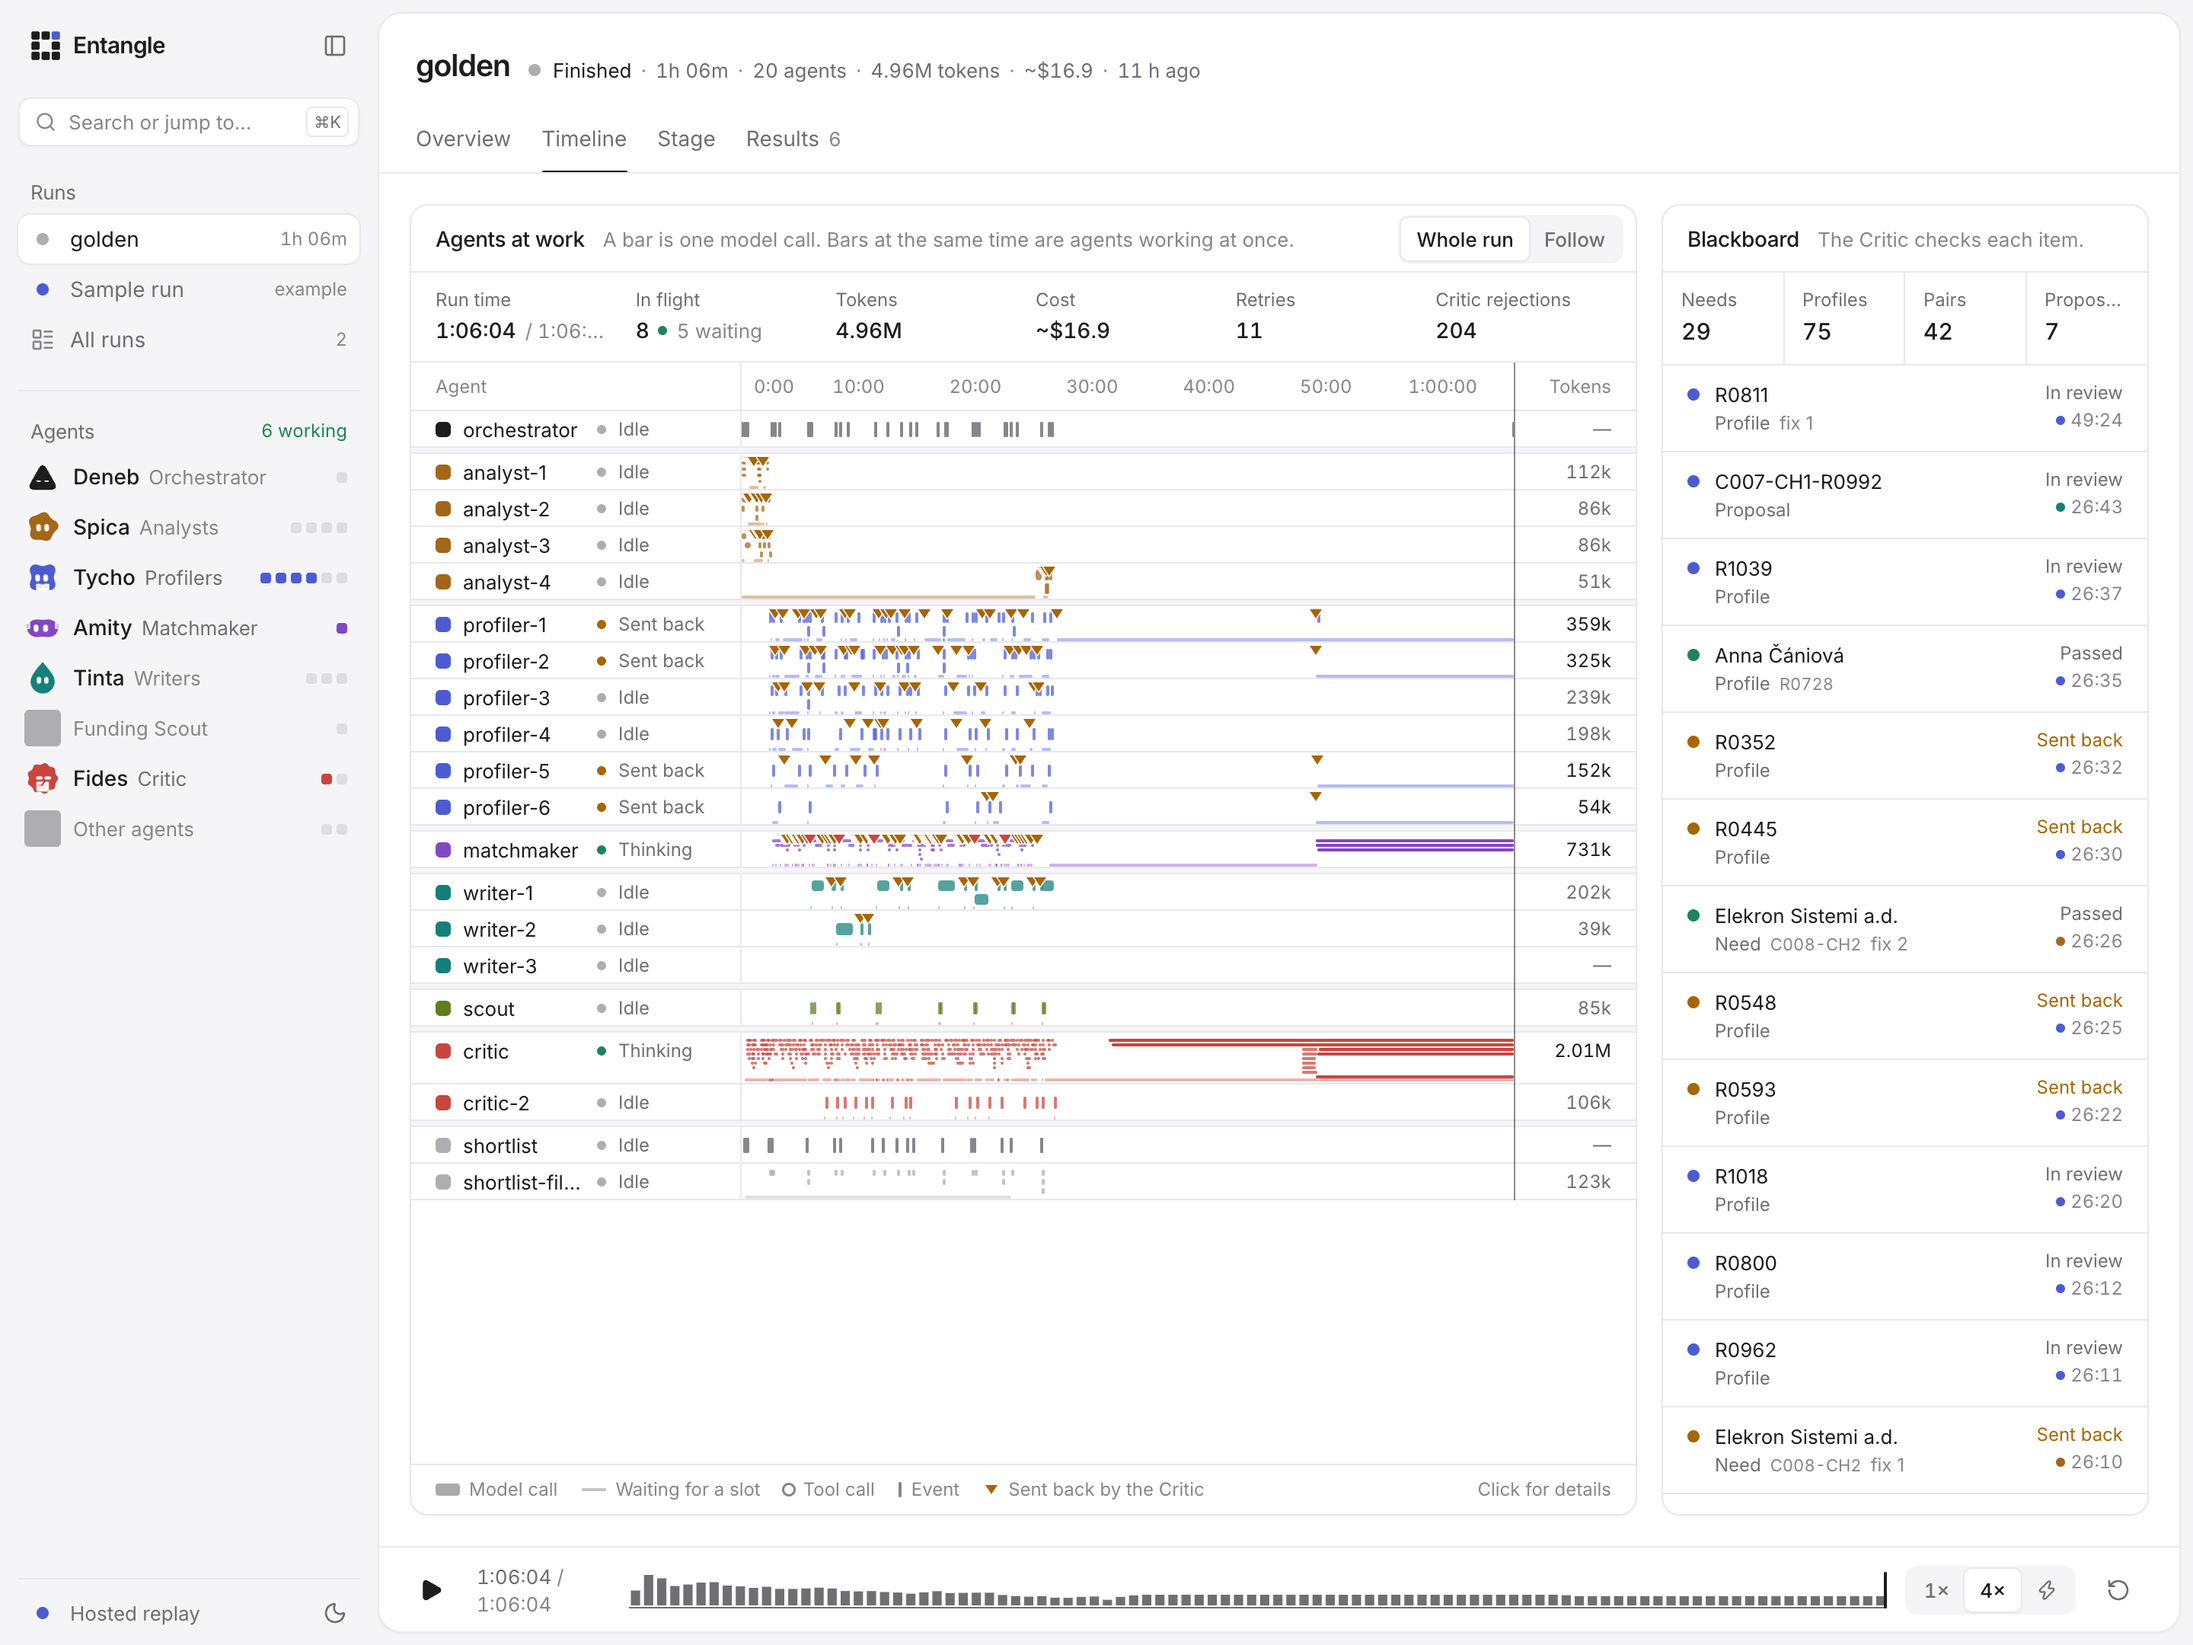
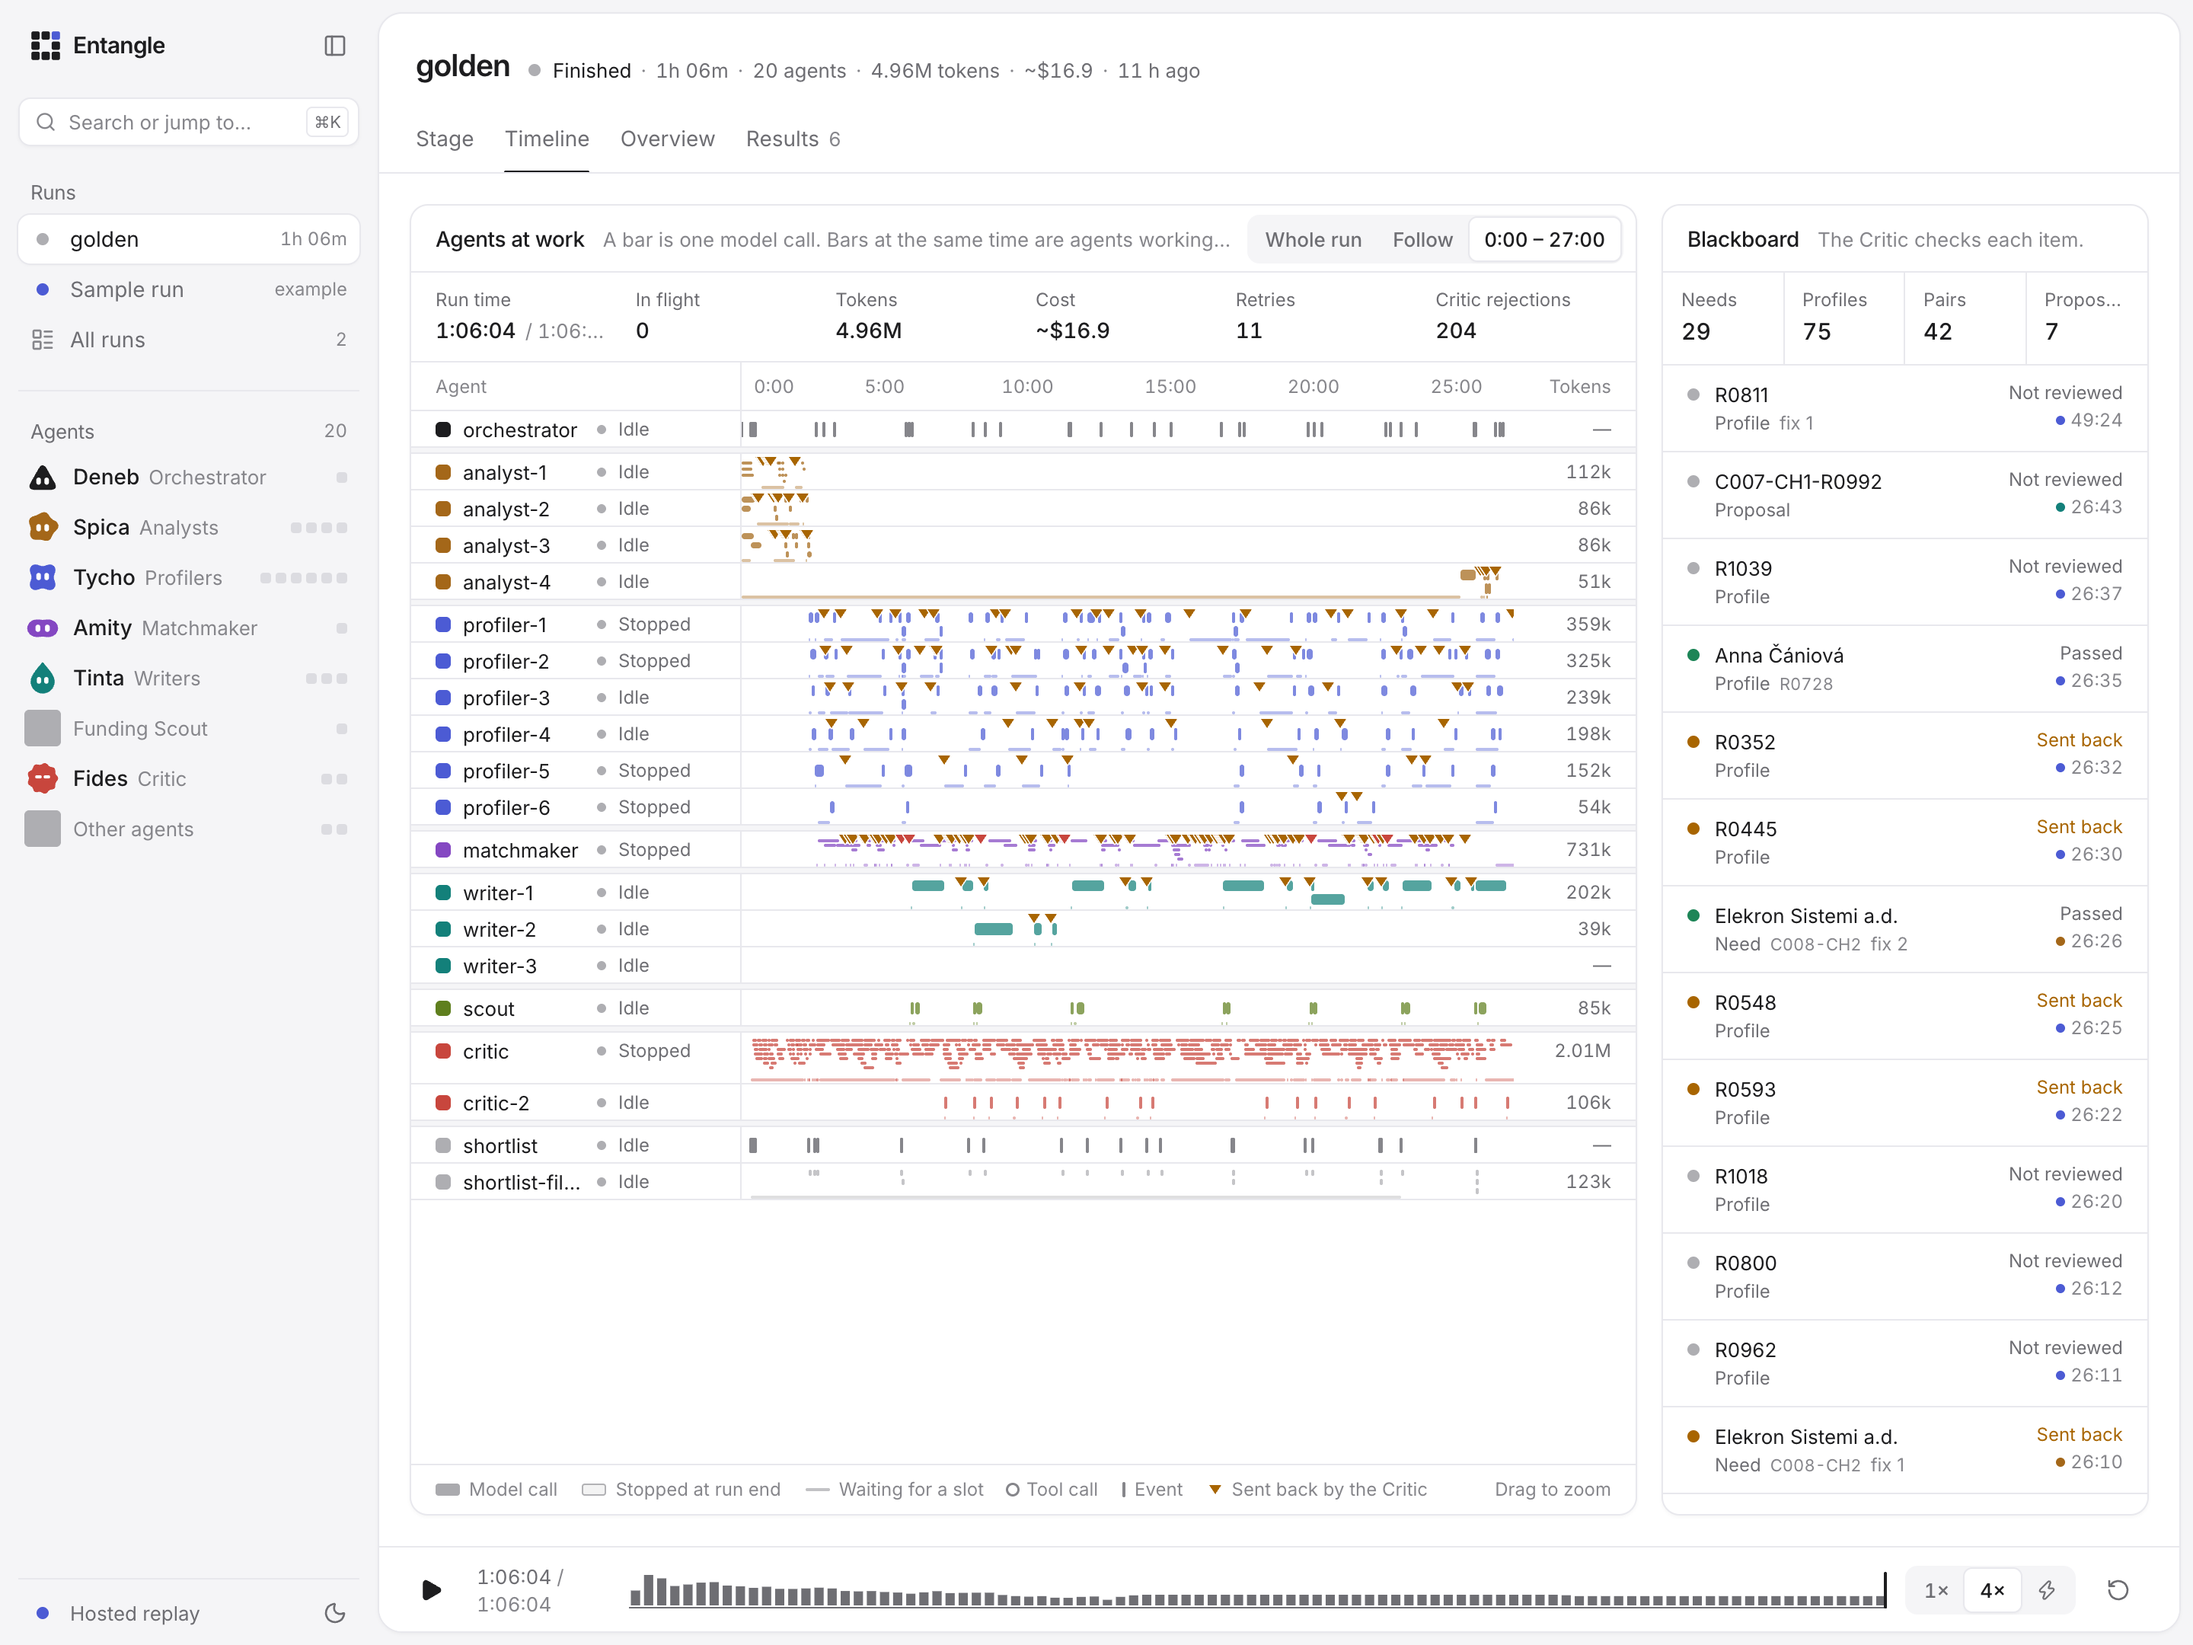
docs(timeline): show the reference run zoomed and describe the zoom gestures

diff --git a/web/README.md b/web/README.md
@@ -16,6 +16,8 @@ The brand (logo, palette, type, agent faces) comes from the kit in [`design/`](.
   The run clock says what happened; a director (`screens/stage/director.ts`) shows it at a human pace at any speed,
   merging bursts into one line ("Checked 6 profiles. All sourced."). A seek jumps there still. Wording is in `words.ts`.
 - `#/runs/:id/live`: the **Timeline** (the tab says "Live" with a green dot while the run is running).
+  Drag across the lanes to zoom to a range, ⌘ or pinch scroll to zoom at the pointer, scroll sideways to pan;
+  double-click, Esc or "Whole run" goes back. A click on a lane moves the playhead there.
 - `#/runs/:id/overview`: what happened. The five steps, model calls in flight over time, what the Critic caught, the proposals.
 - `#/runs/:id/results`: pairs and proposals, as a list and a detail side by side. Deep links:
   `results/proposals/:id` (add `?tab=review` for the Critic history), `results/pairs/:pairId`, `results/challenges/:id`.

diff --git a/README.md b/README.md
@@ -28,7 +28,7 @@ Hackathon track 02 (EINSTEIN: Science-to-Business Matchmaker), JigJoy × NTP Nov
 
 ![The Timeline of a real run: one row per agent, one bar per model call. Overlapping bars are agents working at the same time.](docs/screenshots/timeline.png)
 
-<sub>The Timeline of the reference run (8 companies, `out/golden/`). One row per agent, one bar per model call. Bars that overlap are agents working at the same time.</sub>
+<sub>The Timeline of the reference run (8 companies, `out/golden/`), zoomed to its first 27 minutes. One row per agent, one bar per model call. Bars that overlap are agents working at the same time. Drag across the lanes to zoom.</sub>
 
 **Contents:** [Try it](#try-it-no-keys-needed) · [Run it](#run-it-on-real-models) · [Architecture](#architecture) ·
 [Concurrency](#how-the-agents-run-concurrently) · [The Critic](#where-the-critic-stepped-in) · [EINSTEIN](#how-this-plugs-into-einstein) ·
